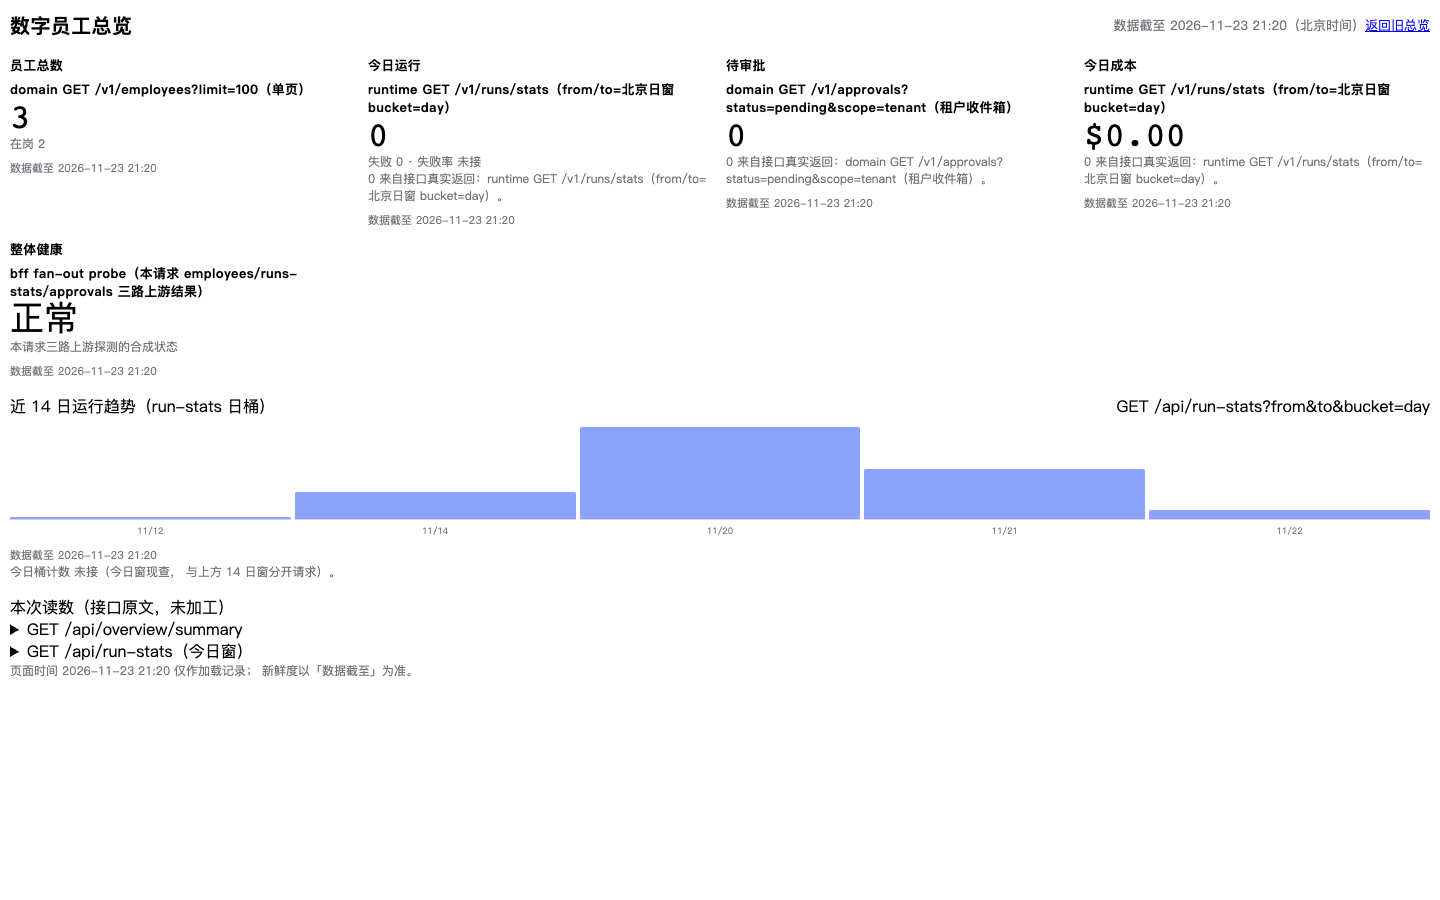
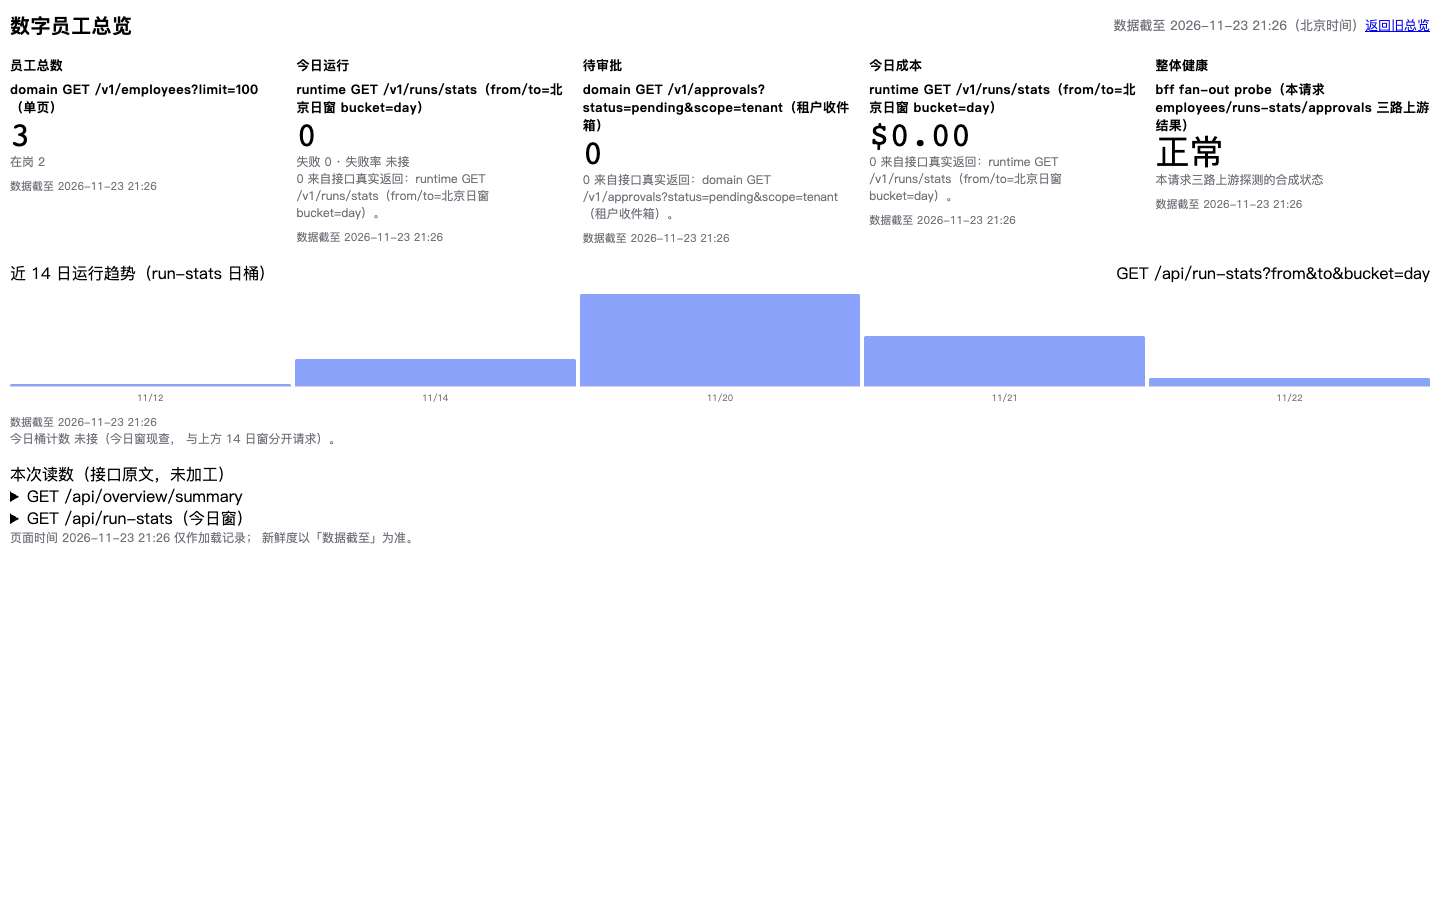
feat(overview): OM-03/OM-10 同批裁定——五卡 auto-fit 网格无孤列、健康卡 BFF fan-out 真来源测试钉(11/11 绿)、OM-02 现网前提失实记录+补拍取证图

diff --git a/web/src/modules/overview/OverviewModulePage.test.tsx b/web/src/modules/overview/OverviewModulePage.test.tsx
@@ -283,6 +283,18 @@ describe('OverviewModulePage 合同：KPI 只走现网 BFF 两端口', () => {
     expect(container.querySelector('[data-testid="ov6-trend"]')?.textContent).toContain('run-stats');
   });
 
+  it('OM-03/OM-10：五卡齐挂且健康卡标注 BFF fan-out 真来源（非本页取数成败）', async () => {
+    await render(
+      <OverviewView state={viewState({})} todayDate="2026-11-23" onRetry={() => {}} />,
+    );
+    expect(
+      container.querySelectorAll('[data-testid^="ov6-kpi-"][data-duty-testid^="duty-kpi-"]'),
+    ).toHaveLength(5);
+    const health = container.querySelector('[data-testid="ov6-kpi-health"]');
+    expect(health?.textContent).toContain('bff fan-out probe');
+    expect(health?.textContent).not.toContain('来源正常'); // 禁「n/6 本页读数」话术回潮
+  });
+
   it('原始响应面板展示接口原文', async () => {
     await render(
       <OverviewView state={viewState({})} todayDate="2026-11-23" onRetry={() => {}} />,

diff --git a/web/src/modules/overview/overview.css b/web/src/modules/overview/overview.css
@@ -36,7 +36,8 @@
 
 .ov5-kpis {
   display: grid;
-  grid-template-columns: repeat(4, minmax(0, 1fr));
+  /* OM-03 裁定：5 卡（overview/summary 五路独立来源+run-stats），主档 auto-fit 等宽，禁孤列 */
+  grid-template-columns: repeat(auto-fit, minmax(200px, 1fr));
   gap: 12px;
 }
 

diff --git a/web/src/modules/overview/DONE.md b/web/src/modules/overview/DONE.md
@@ -59,15 +59,39 @@
 
 取证时页面读数（与 raw 逐字一致）：员工 3、今日运行 0、待审批 0、成本 $0.00、健康 正常；
 请求日志三路全 200（`raw/endpoint-log.json`）。observer 两轮核验通过；轻微遗留（不阻塞）：
-趋势末柱贴容器右缘（右内边距偏小）、柱形无值标注（数值以原文面板为准）。
+趋势末柱贴容器右缘（右内边距偏小）、柱形无值标注（数值以原文面板为准）；
+observer 第三轮（OM-03 五列网格）判定 PASS，另记 1440 五列变窄后来源串 CJK 折行增多
+（词中断行，观感级，建议后续统一 `overflow-wrap:anywhere` 或缩短来源文案，不在本单动）。
 
 ## 测试与构建
 
-- `cd web && node_modules/.bin/vitest run src/modules/overview` → **10 passed / 10**
+- `cd web && node_modules/.bin/vitest run src/modules/overview` → **11 passed / 11**
   （合同：forced 态零请求；只打两端口且 bucket=day；真 0 带来源原文；失败率同源 20%；
   summary 挂→各卡未接入+编号+重试；今日窗挂只影响运行卡；全挂整页错误声明不编造；
-  采集时间行；日桶渲染；原文面板无 innerHTML）
+  采集时间行；日桶渲染；原文面板无 innerHTML；OM-03/10 五卡等宽+健康卡真来源钉）
 - `cd web && node_modules/.bin/vite build` → 通过（产物 `<tree>/hermes_cli/web_dist`）。
+
+## OM-02 前提复核（2026-11-23 21:2x 现网实测，未动主仓 BFF）
+
+backlog `docs/product/backlogs/overview-metrics.md` OM-02 断言「`/api/workbench/*` BFF 0 命中→404」。
+现网 9122 带登录态实测三条腿全部 **200**，且形态已合 OM-02 DoD：
+
+- `workbench/summary?range=1d` → kpis:[{key:runs,label,value,previous,delta,available,reason}]，含 window/previousWindow
+- `workbench/timeseries?range=7d&bucket=day&metric=runs` → points:[{ts,label,value}]、totals、缺桶语义在
+- `workbench/queue?page_size=5` → `{items:[],total:0,available:true,asOf,asOfSource:"bff-read-time",note:"…不造数"}`
+
+判读：**OM-02 工单前提失真（backlog 落后于现网），不新建死代码**；请 L0 按 rubric 更新 backlog 后
+OM-02 可径直标 VERIFIED（腿已在）。P-OM-3 的「workbench 0 命中」同此失效。
+
+## OM-03 / OM-10 同批裁定（本车道，前端侧）
+
+- **OM-03 裁定：保持 5 卡**（employeeTotal/activeTotal 合卡、runs、pending、cost、health 各对应
+  `overview/summary` 独立来源字段，撤任何一张即丢一路真读数）。网格 `repeat(auto-fit,minmax(200px,1fr))`
+  ——1440 五列等宽无孤列，窄档维持 2/1 列断点；截图 `overview-1440.png` 为证。
+- **OM-10 裁定：健康卡已是真读口**——值取 `overview/summary.healthStatus`，来源标注
+  `bff fan-out probe（本请求 employees/runs-stats/approvals 三路上游结果）`，不再用本页取数成败计数；
+  测试钉住卡面含该来源串且无「n/6 来源正常」话术。`/api/hermes-summary` 属 metrics 车道（MT 组），不在本写域重复接线。
+- P-OM-2（失败率同源同窗）在 4bf3097a91 已修：分子分母同取 run-stats 今日窗 totals。
 
 ## 已知边界（如实上报，非缺陷隐瞒）
 
